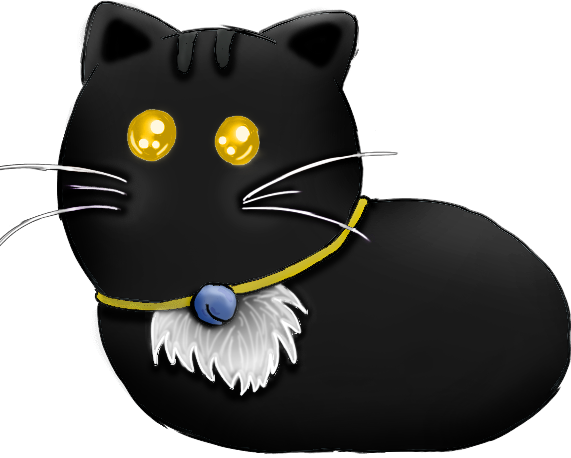
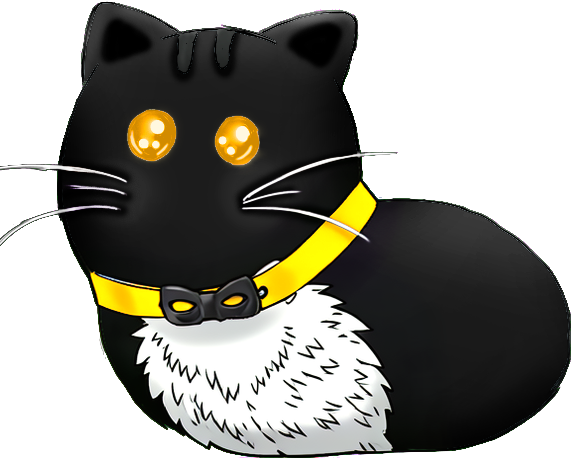
WIP

diff --git a/examples/bubble_idle/MainRendering.cpp b/examples/bubble_idle/MainRendering.cpp
@@ -800,7 +800,10 @@ void Main::gameLoopDrawCat(
     const auto circleOutlineColor = circleColor.withAlpha(rangeInnerAlpha == 0u ? circleAlpha : 255u);
     const auto textOutlineColor   = circleColor.withLightness(0.25f);
 
-    if (profile.showCatRange && !inPrestigeTransition)
+    const bool shouldDrawCatRange = profile.showCatRange && !inPrestigeTransition &&
+                                    (!profile.showRangesOnlyOnHover || shouldDisplayRangeCircle);
+
+    if (shouldDrawCatRange)
         batchToUse.add(sf::CircleShapeData{
             .position           = getCatRangeCenter(cat),
             .origin             = {range, range},
@@ -1286,12 +1289,15 @@ void Main::gameLoopDrawCat(
         if (pt->perm.smartCatsPurchased && cat.type == CatType::Normal && cat.nameIdx % 2u != 0u)
             catNameBuffer += ", PhD";
 
+        const auto textAlpha = cat.isHexedOrCopyHexed() ? static_cast<U8>(160u) : static_cast<U8>(255u);
+
         // Name text
         textNameBuffer.setString(catNameBuffer);
         textNameBuffer.position = cat.position.addY(52.f);
         textNameBuffer.origin   = textNameBuffer.getLocalBounds().size / 2.f;
         textNameBuffer.scale    = sf::Vec2f{0.5f, 0.5f} * catScaleMult;
-        textNameBuffer.setOutlineColor(textOutlineColor);
+        textNameBuffer.setFillColor(sf::Color::White.withAlpha(textAlpha));
+        textNameBuffer.setOutlineColor(textOutlineColor.withAlpha(textAlpha));
         textBatchToUse.add(textNameBuffer);
 
         // Status text
@@ -1340,18 +1346,32 @@ void Main::gameLoopDrawCat(
                 }
             }
 
+
             textStatusBuffer.setString(actionString);
             textStatusBuffer.position = cat.position.addY(72.f);
             textStatusBuffer.origin   = textStatusBuffer.getLocalBounds().size / 2.f;
-            textStatusBuffer.setFillColor(sf::Color::White);
-            textStatusBuffer.setOutlineColor(textOutlineColor);
+            textStatusBuffer.setFillColor(sf::Color::White.withAlpha(textAlpha));
+            textStatusBuffer.setOutlineColor(textOutlineColor.withAlpha(textAlpha));
+            cat.textStatusShakeEffect.applyToText(textStatusBuffer);
+            textStatusBuffer.scale *= 0.4f * catScaleMult;
+            textBatchToUse.add(textStatusBuffer);
+
+            if (cat.isHexedOrCopyHexed())
+                actionString = "\n[hexed]";
+
+
+            textStatusBuffer.setString(actionString);
+            textStatusBuffer.position = cat.position.addY(72.f);
+            textStatusBuffer.origin   = textStatusBuffer.getLocalBounds().size / 2.f;
+            textStatusBuffer.setFillColor(sf::Color::White.withAlpha(textAlpha));
+            textStatusBuffer.setOutlineColor(textOutlineColor.withAlpha(textAlpha));
             cat.textStatusShakeEffect.applyToText(textStatusBuffer);
             textStatusBuffer.scale *= 0.4f * catScaleMult;
             textBatchToUse.add(textStatusBuffer);
         }
 
-        const bool hideCooldownBar = inPrestigeTransition || cat.type == CatType::Repulso ||
-                                     cat.type == CatType::Attracto || cat.type == CatType::Duck;
+        const bool hideCooldownBar = inPrestigeTransition || cat.type == CatType::Repulso || cat.type == CatType::Attracto ||
+                                     cat.type == CatType::Duck || cat.isHexedOrCopyHexed();
 
         if (!hideCooldownBar)
             textBatchToUse.add(sf::RoundedRectangleShapeData{
@@ -1419,16 +1439,19 @@ void Main::gameLoopDrawShrines(const sf::Vec2f mousePos)
 
         const auto range = shrine.getRange();
 
-        cpuDrawableBatchAfterCats.add(sf::CircleShapeData{
-            .position           = shrine.position,
-            .origin             = {range, range},
-            .outlineTextureRect = txrWhiteDot,
-            .fillColor          = circleOutlineColor.withAlpha(rangeInnerAlpha),
-            .outlineColor       = circleColor,
-            .outlineThickness   = 1.f,
-            .radius             = range,
-            .pointCount         = 64u,
-        });
+        const bool shouldDrawShrineRange = !profile.showRangesOnlyOnHover || hoveredShrine == &shrine;
+
+        if (shouldDrawShrineRange)
+            cpuDrawableBatchAfterCats.add(sf::CircleShapeData{
+                .position           = shrine.position,
+                .origin             = {range, range},
+                .outlineTextureRect = txrWhiteDot,
+                .fillColor          = circleOutlineColor.withAlpha(rangeInnerAlpha),
+                .outlineColor       = circleColor,
+                .outlineThickness   = 1.f,
+                .radius             = range,
+                .pointCount         = 64u,
+            });
 
         textNameBuffer.setString(shrineNames[asIdx(shrine.type)]);
         textNameBuffer.position = shrine.position.addY(48.f);
@@ -2192,10 +2215,34 @@ void Main::drawActivatedShrineBackgroundEffects(sf::RenderTarget& rt,
                                                 const sf::Vec2f   activeGameViewCenter) const
 {
     constexpr float maxShrineEffectRange = 256.f; // Keep in sync with Shrine::getRange().
+    constexpr float hexedCatEffectRange  = Cat::radius * 1.35f;
 
     const sf::Texture& backgroundTexture    = rtBackgroundProcessed.getTexture();
     const sf::Vec2f    backgroundViewOrigin = backgroundView.center - backgroundView.size / 2.f;
     const sf::Vec2f    activeViewDelta      = activeGameViewCenter - backgroundView.center;
+    const auto         drawBackgroundEffect =
+        [&](const sf::Vec2f center, const float range, const sf::Color tint, const float effectStrength)
+    {
+        if (range <= 0.f || effectStrength <= 0.f)
+            return;
+
+        shaderShrineBackground.setUniform(suShrineBgTime, shaderTime);
+        shaderShrineBackground.setUniform(suShrineBgViewOrigin, backgroundViewOrigin);
+        shaderShrineBackground.setUniform(suShrineBgCenter, center);
+        shaderShrineBackground.setUniform(suShrineBgRange, range);
+        shaderShrineBackground.setUniform(suShrineBgTintR, static_cast<float>(tint.r) / 255.f);
+        shaderShrineBackground.setUniform(suShrineBgTintG, static_cast<float>(tint.g) / 255.f);
+        shaderShrineBackground.setUniform(suShrineBgTintB, static_cast<float>(tint.b) / 255.f);
+        shaderShrineBackground.setUniform(suShrineBgDistortionStrength, 1812.f);
+        shaderShrineBackground.setUniform(suShrineBgTintStrength, 0.2f);
+        shaderShrineBackground.setUniform(suShrineBgEffectStrength, effectStrength);
+
+        rt.draw(backgroundTexture,
+                {.textureRect = {{0.f, 0.f}, backgroundView.size}},
+                {.view = backgroundView, .texture = &backgroundTexture, .shader = &shaderShrineBackground});
+
+        rt.flush();
+    };
 
     for (const Shrine& shrine : pt->shrines)
     {
@@ -2216,23 +2263,23 @@ void Main::drawActivatedShrineBackgroundEffects(sf::RenderTarget& rt,
 
         const sf::Color tint = sf::Color::fromHSLA({.hue = shrine.getHue() + 40.f, .saturation = 1.f, .lightness = 0.5f});
         const sf::Vec2f backgroundSpaceCenter = shrine.position - activeViewDelta;
+        drawBackgroundEffect(backgroundSpaceCenter, range, tint, effectStrength);
+    }
 
-        shaderShrineBackground.setUniform(suShrineBgTime, shaderTime);
-        shaderShrineBackground.setUniform(suShrineBgViewOrigin, backgroundViewOrigin);
-        shaderShrineBackground.setUniform(suShrineBgCenter, backgroundSpaceCenter);
-        shaderShrineBackground.setUniform(suShrineBgRange, range);
-        shaderShrineBackground.setUniform(suShrineBgTintR, static_cast<float>(tint.r) / 255.f);
-        shaderShrineBackground.setUniform(suShrineBgTintG, static_cast<float>(tint.g) / 255.f);
-        shaderShrineBackground.setUniform(suShrineBgTintB, static_cast<float>(tint.b) / 255.f);
-        shaderShrineBackground.setUniform(suShrineBgDistortionStrength, 1812.f);
-        shaderShrineBackground.setUniform(suShrineBgTintStrength, 0.2f);
-        shaderShrineBackground.setUniform(suShrineBgEffectStrength, effectStrength);
+    for (const Cat& cat : pt->cats)
+    {
+        if (!cat.isHexedOrCopyHexed())
+            continue;
 
-        rt.draw(backgroundTexture,
-                {.textureRect = {{0.f, 0.f}, backgroundView.size}},
-                {.view = backgroundView, .texture = &backgroundTexture, .shader = &shaderShrineBackground});
+        const float effectStrength = cat.getHexedTimer()->remap(0.f, 1.f);
+        if (effectStrength <= 0.f)
+            continue;
 
-        rt.flush();
+        const bool      copyHexed = cat.hexedCopyTimer.hasValue();
+        const float     hexHue    = copyHexed ? 180.f : 0.f;
+        const sf::Color tint      = sf::Color::fromHSLA({.hue = hexHue + 40.f, .saturation = 1.f, .lightness = 0.5f});
+        const sf::Vec2f backgroundSpaceCenter = cat.getDrawPosition(profile.enableCatBobbing) - activeViewDelta;
+        drawBackgroundEffect(backgroundSpaceCenter, hexedCatEffectRange, tint, effectStrength);
     }
 }
 

diff --git a/examples/bubble_idle/BubbleIdleMain.hpp b/examples/bubble_idle/BubbleIdleMain.hpp
@@ -331,8 +331,8 @@ struct Main
     // Shader for activated shrine background distortion
     sf::Shader shaderShrineBackground{[]
     {
-        auto result = sf::Shader::loadFromFile(
-                          {.vertexPath = "resources/shrine_background.vert", .fragmentPath = "resources/shrine_background.frag"})
+        auto result = sf::Shader::loadFromFile({.vertexPath   = "resources/shrine_background.vert",
+                                                .fragmentPath = "resources/shrine_background.frag"})
                           .value();
         result.setUniform(result.getUniformLocation("sf_u_texture").value(), sf::Shader::CurrentTexture);
         return result;
@@ -341,15 +341,14 @@ struct Main
     sf::Shader::UniformLocation suShrineBgTime = shaderShrineBackground.getUniformLocation("u_time").value();
     sf::Shader::UniformLocation suShrineBgViewOrigin = shaderShrineBackground.getUniformLocation("u_viewOrigin").value();
     sf::Shader::UniformLocation suShrineBgCenter = shaderShrineBackground.getUniformLocation("u_shrineCenter").value();
-    sf::Shader::UniformLocation suShrineBgRange = shaderShrineBackground.getUniformLocation("u_shrineRange").value();
-    sf::Shader::UniformLocation suShrineBgTintR = shaderShrineBackground.getUniformLocation("u_shrineTintR").value();
-    sf::Shader::UniformLocation suShrineBgTintG = shaderShrineBackground.getUniformLocation("u_shrineTintG").value();
-    sf::Shader::UniformLocation suShrineBgTintB = shaderShrineBackground.getUniformLocation("u_shrineTintB").value();
-    sf::Shader::UniformLocation suShrineBgDistortionStrength =
-        shaderShrineBackground.getUniformLocation("u_distortionStrength").value();
+    sf::Shader::UniformLocation suShrineBgRange  = shaderShrineBackground.getUniformLocation("u_shrineRange").value();
+    sf::Shader::UniformLocation suShrineBgTintR  = shaderShrineBackground.getUniformLocation("u_shrineTintR").value();
+    sf::Shader::UniformLocation suShrineBgTintG  = shaderShrineBackground.getUniformLocation("u_shrineTintG").value();
+    sf::Shader::UniformLocation suShrineBgTintB  = shaderShrineBackground.getUniformLocation("u_shrineTintB").value();
+    sf::Shader::UniformLocation
+        suShrineBgDistortionStrength = shaderShrineBackground.getUniformLocation("u_distortionStrength").value();
     sf::Shader::UniformLocation suShrineBgTintStrength = shaderShrineBackground.getUniformLocation("u_tintStrength").value();
-    sf::Shader::UniformLocation suShrineBgEffectStrength =
-        shaderShrineBackground.getUniformLocation("u_effectStrength").value();
+    sf::Shader::UniformLocation suShrineBgEffectStrength = shaderShrineBackground.getUniformLocation("u_effectStrength").value();
 
     ////////////////////////////////////////////////////////////
     // Context settings
@@ -551,7 +550,7 @@ struct Main
             .value()};
     sf::Texture txBackgroundChunk{sf::Texture::loadFromFile("resources/bgtest.png", bgSettings).value()};
     sf::Texture txBackgroundChunkDesaturated{
-        sf::Texture::loadFromFile("resources/backgroundchunkdesaturated.png", bgSettings).value()};
+        sf::Texture::loadFromFile("resources/bgtestdesaturated.png", bgSettings).value()};
     sf::Texture txClouds{sf::Texture::loadFromFile("resources/clouds.png", bgSettings).value()};
     sf::Texture txTintedClouds{sf::Texture::loadFromFile("resources/tintedclouds.png", bgSettings).value()};
     sf::Texture txBgSwamp{sf::Texture::loadFromFile("resources/bgswamp.png", bgSettings).value()};
@@ -3357,8 +3356,8 @@ struct Main
     void setPostProcessUniforms(float vibrance, float saturation, float lightness, float sharpness, float blur) const;
     void updateProcessedBackground();
     void drawActivatedShrineBackgroundEffects(sf::RenderTarget& rt,
-                                             const sf::View&   backgroundView,
-                                             sf::Vec2f         activeGameViewCenter) const;
+                                              const sf::View&   backgroundView,
+                                              sf::Vec2f         activeGameViewCenter) const;
     [[nodiscard]] sf::RenderTexture& getHexedCatRenderTexture(sf::base::SizeT index);
     void enqueueHexedCatDrawCommand(const sf::CPUDrawableBatch& batch, sf::Vec2f position, bool top, float phaseSeed, float effectStrength);
     void                drawHexedCatDrawCommands(const sf::View& view, bool top);

diff --git a/examples/bubble_idle/MainSystems.cpp b/examples/bubble_idle/MainSystems.cpp
@@ -1403,17 +1403,18 @@ void Main::gameLoopUpdateCatActions(const float deltaTimeMs)
 
         if (cat.hexedTimer.hasValue() || (cat.type == CatType::Witch && (anyCatHexed() || !pt->dolls.empty())))
         {
-            spawnParticle({.position = drawPosition + sf::Vec2f{rngFast.getF(-catRadius, +catRadius), catRadius - 9.f},
-                           .velocity = rngFast.getVec2f({-0.05f, -0.05f}, {0.05f, 0.05f}),
-                           .scale    = rngFast.getF(0.08f, 0.27f) * 0.5f,
-                           .scaleDecay    = 0.f,
-                           .accelerationY = -0.0017f,
-                           .opacity       = 1.f,
-                           .opacityDecay  = rngFast.getF(0.00035f, 0.0025f),
-                           .rotation      = rngFast.getF(0.f, sf::base::tau),
-                           .torque        = rngFast.getF(-0.002f, 0.002f)},
-                          /* hue */ wrapHue(rngFast.getF(-50.f, 50.f)),
-                          ParticleType::Hex);
+            if (rngFast.getI(0, 10) > 5)
+                spawnParticle({.position = drawPosition + sf::Vec2f{rngFast.getF(-catRadius, +catRadius), catRadius - 9.f},
+                               .velocity      = rngFast.getVec2f({-0.05f, -0.05f}, {0.05f, 0.05f}),
+                               .scale         = rngFast.getF(0.08f, 0.27f) * 0.5f,
+                               .scaleDecay    = 0.f,
+                               .accelerationY = -0.0017f,
+                               .opacity       = 0.5f,
+                               .opacityDecay  = rngFast.getF(0.00035f, 0.0025f) * 0.6f,
+                               .rotation      = rngFast.getF(0.f, sf::base::tau),
+                               .torque        = rngFast.getF(-0.002f, 0.002f)},
+                              /* hue */ wrapHue(rngFast.getF(-50.f, 50.f)),
+                              ParticleType::Hex);
 
             continue;
         }
@@ -1421,17 +1422,18 @@ void Main::gameLoopUpdateCatActions(const float deltaTimeMs)
         if (cat.hexedCopyTimer.hasValue() || (cat.type == CatType::Copy && pt->copycatCopiedCatType == CatType::Witch &&
                                               (anyCatCopyHexed() || !pt->copyDolls.empty())))
         {
-            spawnParticle({.position = drawPosition + sf::Vec2f{rngFast.getF(-catRadius, +catRadius), catRadius - 9.f},
-                           .velocity = rngFast.getVec2f({-0.05f, -0.05f}, {0.05f, 0.05f}),
-                           .scale    = rngFast.getF(0.08f, 0.27f) * 0.5f,
-                           .scaleDecay    = 0.f,
-                           .accelerationY = -0.0017f,
-                           .opacity       = 1.f,
-                           .opacityDecay  = rngFast.getF(0.00035f, 0.0025f),
-                           .rotation      = rngFast.getF(0.f, sf::base::tau),
-                           .torque        = rngFast.getF(-0.002f, 0.002f)},
-                          /* hue */ wrapHue(rngFast.getF(-50.f, 50.f) + 180.f),
-                          ParticleType::Hex);
+            if (rngFast.getI(0, 10) > 5)
+                spawnParticle({.position = drawPosition + sf::Vec2f{rngFast.getF(-catRadius, +catRadius), catRadius - 9.f},
+                               .velocity      = rngFast.getVec2f({-0.05f, -0.05f}, {0.05f, 0.05f}),
+                               .scale         = rngFast.getF(0.08f, 0.27f) * 0.5f,
+                               .scaleDecay    = 0.f,
+                               .accelerationY = -0.0017f,
+                               .opacity       = 0.5f,
+                               .opacityDecay  = rngFast.getF(0.00035f, 0.0025f) * 0.6f,
+                               .rotation      = rngFast.getF(0.f, sf::base::tau),
+                               .torque        = rngFast.getF(-0.002f, 0.002f)},
+                              /* hue */ wrapHue(rngFast.getF(-50.f, 50.f) + 180.f),
+                              ParticleType::Hex);
 
             continue;
         }

diff --git a/examples/bubble_idle/Profile.hpp b/examples/bubble_idle/Profile.hpp
@@ -28,13 +28,14 @@ struct [[nodiscard]] Profile
     int   selectedBackground = 0; // `[0, nShrineTypes + 1)`
     bool  alwaysShowDrawings = false;
 
-    bool showCatRange        = true;
-    bool showCatText         = true;
-    bool showParticles       = true;
-    bool showTextParticles   = true;
-    bool accumulatingCombo   = true;
-    bool showCursorComboText = true;
-    bool useBubbleShader     = true;
+    bool showCatRange          = true;
+    bool showRangesOnlyOnHover = true;
+    bool showCatText           = true;
+    bool showParticles         = true;
+    bool showTextParticles     = true;
+    bool accumulatingCombo     = true;
+    bool showCursorComboText   = true;
+    bool useBubbleShader       = true;
 
     int   cursorTrailMode  = 0; // 0=combo, 1=always, 2=off
     float cursorTrailScale = 1.f;

diff --git a/examples/bubble_idle/MainGameplay.cpp b/examples/bubble_idle/MainGameplay.cpp
@@ -499,7 +499,7 @@ void Main::gameLoopUpdateAndDrawBackground(const float deltaTimeMs, const sf::Vi
     ////////////////////////////////////////////////////////////
     const sf::Texture* const chunkTx[] = {
         &txBackgroundChunk,            // Normal
-        &txBackgroundChunk,            // Voodoo
+        &txBackgroundChunkDesaturated, // Voodoo
         &txBackgroundChunk,            // Magic
         &txBackgroundChunkDesaturated, // Clicking
         &txBackgroundChunk,            // Automation

diff --git a/examples/bubble_idle/Serialization.cpp b/examples/bubble_idle/Serialization.cpp
@@ -606,8 +606,9 @@ void twoWaySerializer(isSameDecayed<nlohmann::json> auto&& j, isSameDecayed<Prof
         p.selectedBackground,
         p.alwaysShowDrawings,
 
-        p.showCatText,
         p.showCatRange,
+        p.showRangesOnlyOnHover,
+        p.showCatText,
         p.showParticles,
         p.showTextParticles,
         p.accumulatingCombo,

diff --git a/examples/bubble_idle/UiSettings.cpp b/examples/bubble_idle/UiSettings.cpp
@@ -220,6 +220,7 @@ void Main::uiTabBarSettings()
         ImGui::Separator();
 
         uiCheckbox("Show cat range", &profile.showCatRange);
+        uiCheckbox("Show ranges only on hover", &profile.showRangesOnlyOnHover);
         uiCheckbox("Show cat text", &profile.showCatText);
         uiCheckbox("Enable cat bobbing", &profile.enableCatBobbing);
 

diff --git a/examples/bubble_idle/UiCore.cpp b/examples/bubble_idle/UiCore.cpp
@@ -1291,6 +1291,7 @@ void Main::uiDrawQuickbarQuickSettings(const sf::Vec2f quickBarPos)
         ImGui::Separator();
 
         uiCheckbox("Show cat range", &profile.showCatRange);
+        uiCheckbox("Show ranges only on hover", &profile.showRangesOnlyOnHover);
         uiCheckbox("Show cat text", &profile.showCatText);
 
         ImGui::Separator();
